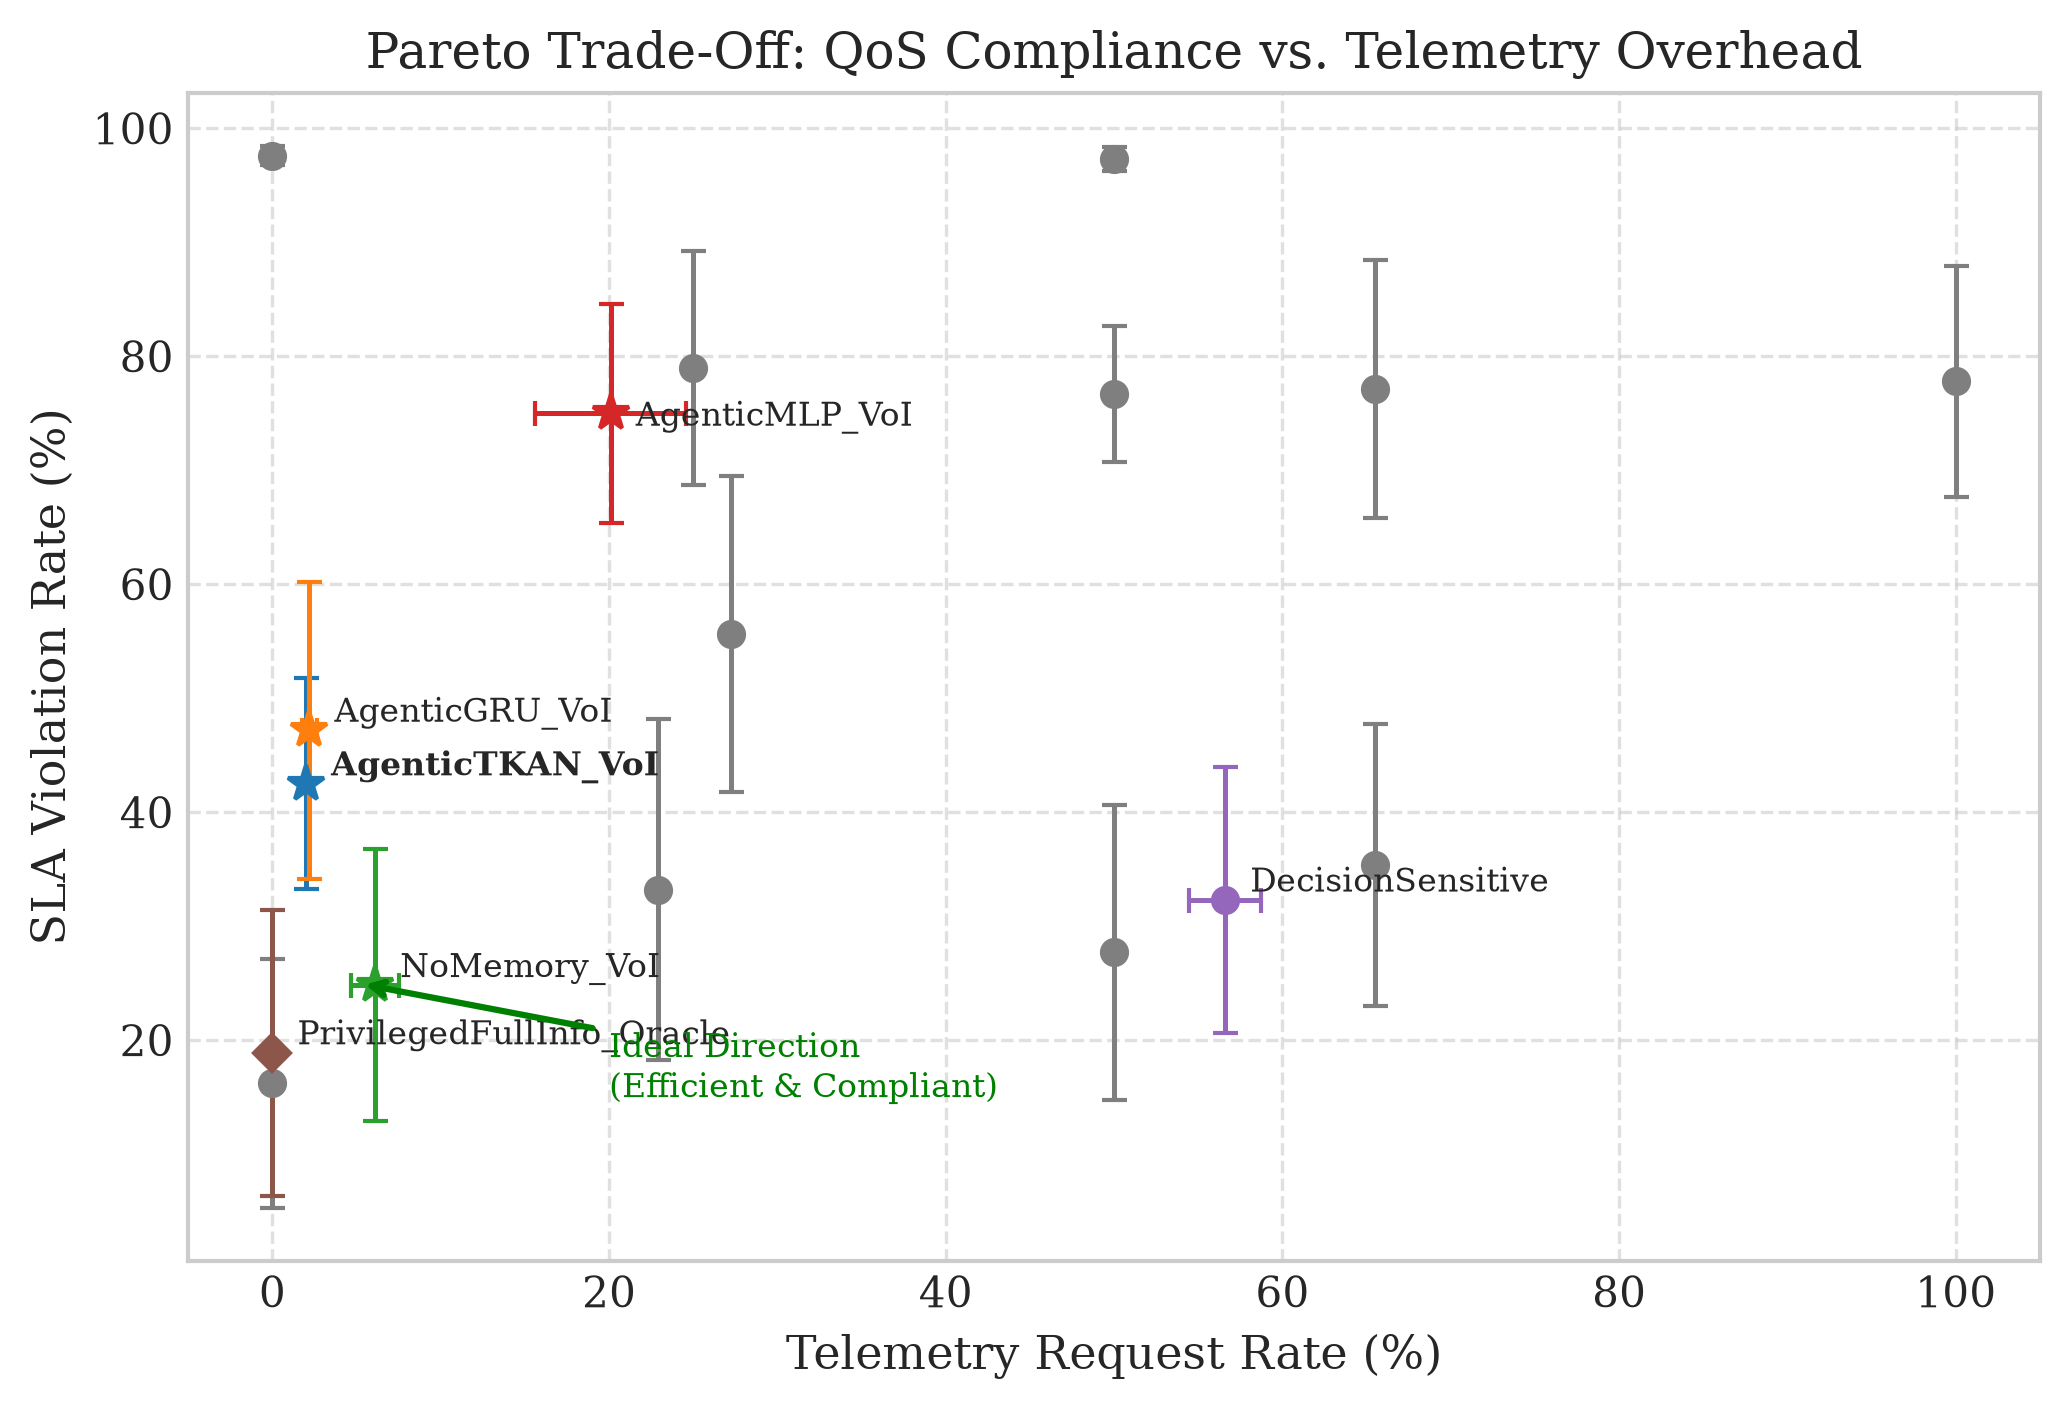
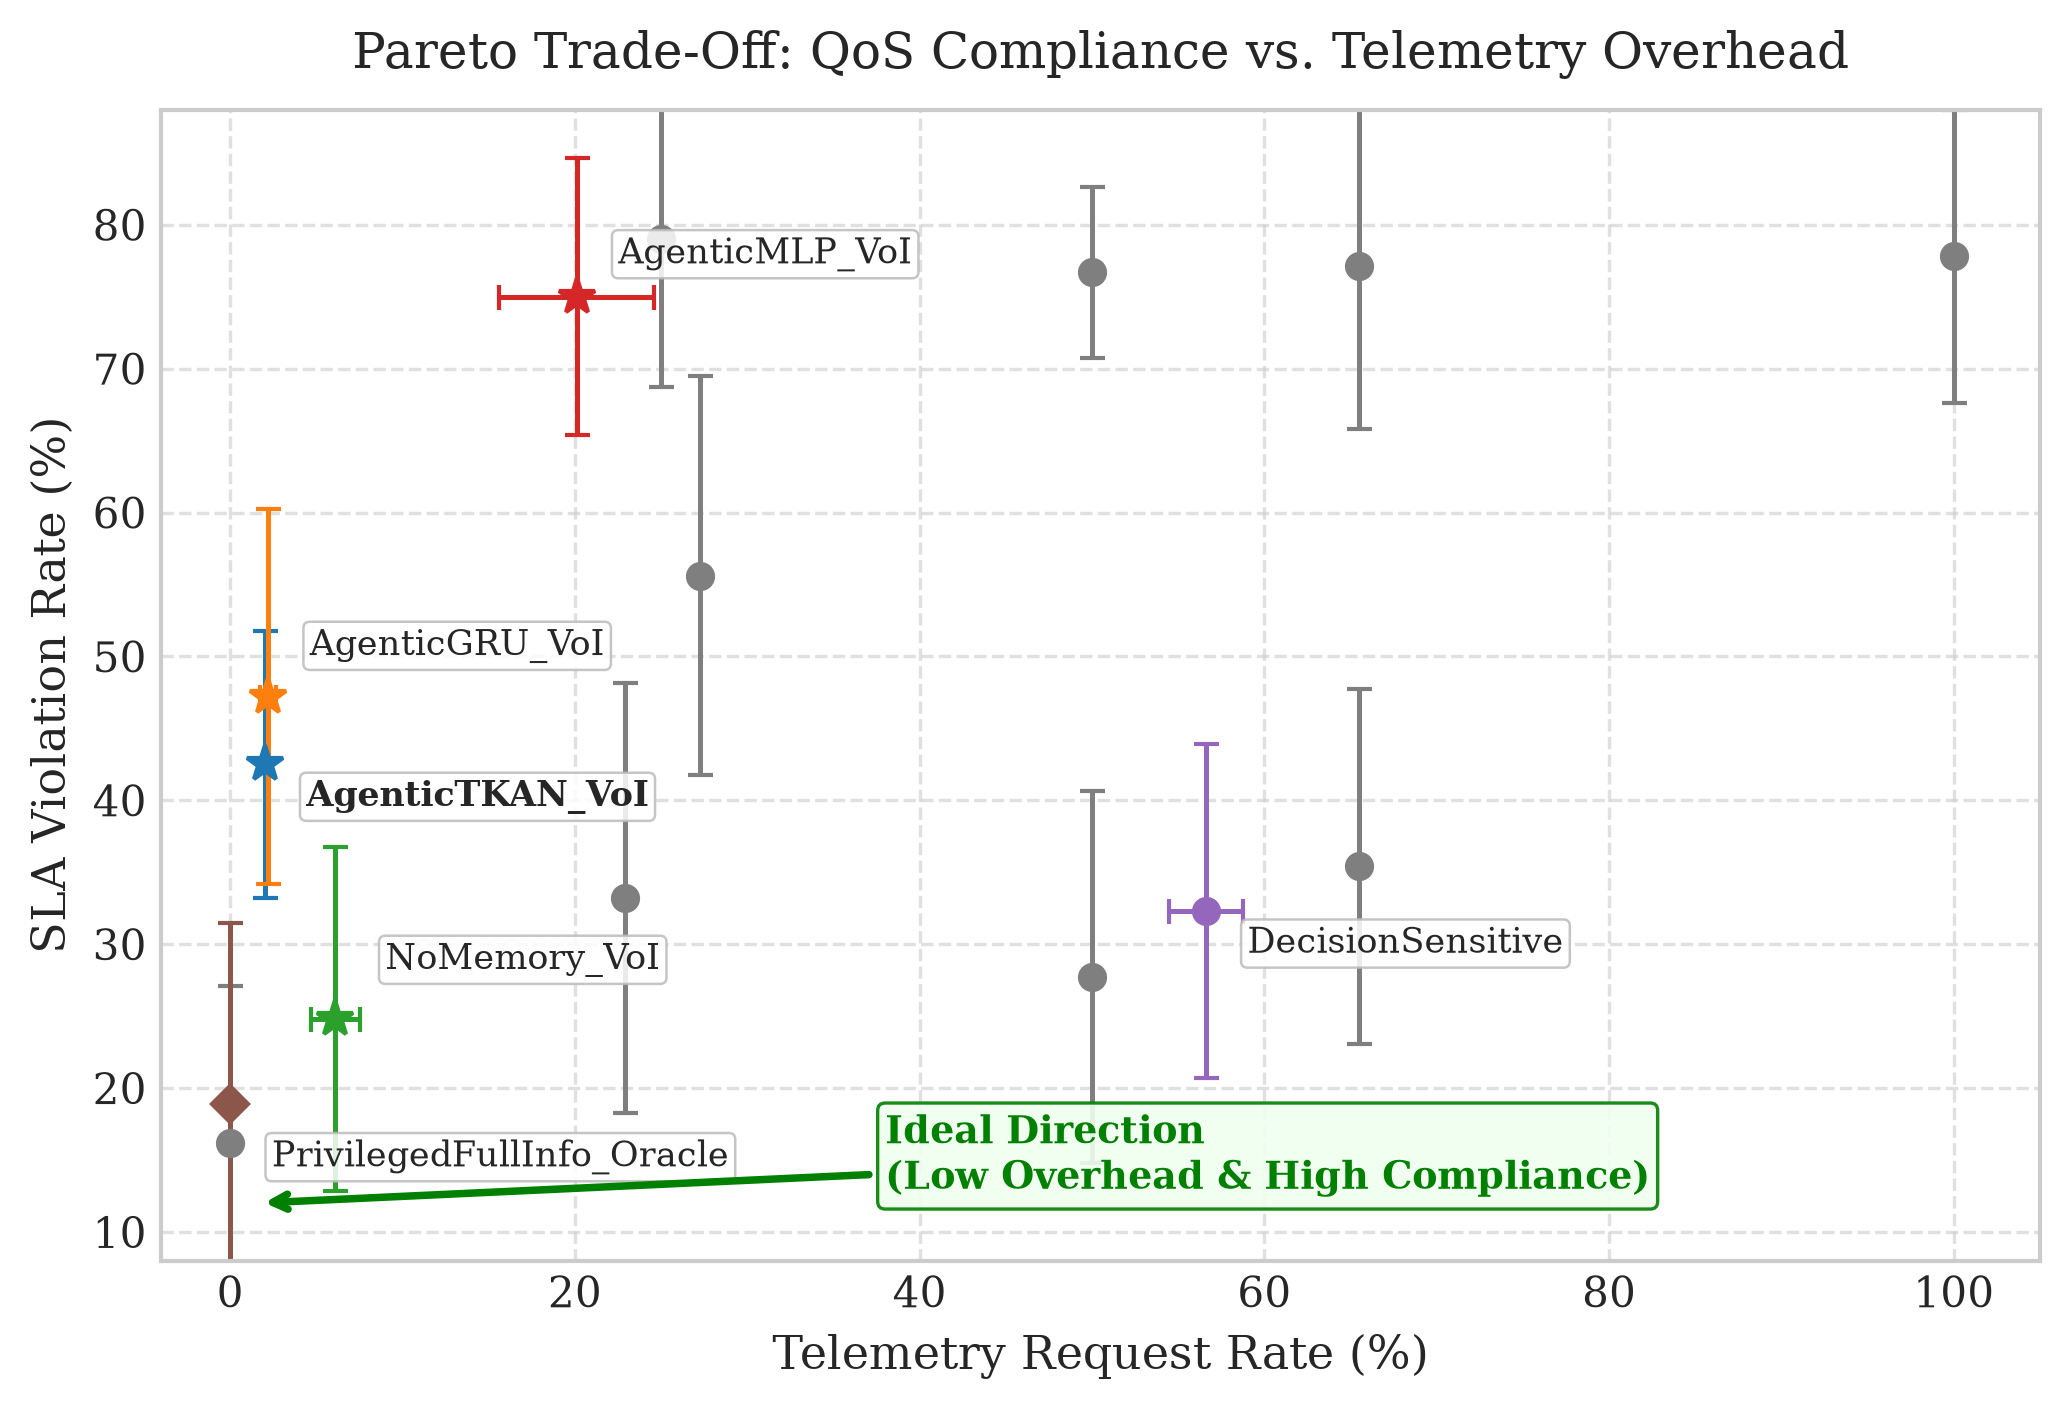
fix(figures): eliminate label text overlaps and refine spacing across all figures

diff --git a/scripts/generate_figures.py b/scripts/generate_figures.py
@@ -66,19 +66,45 @@ def plot_fig1_pareto():
             label=name if name in colors or "Periodic" in name or "Always" in name else None
         )
 
-        # Label key points
-        if name in ["AgenticTKAN_VoI", "AgenticGRU_VoI", "AgenticMLP_VoI", "NoMemory_VoI", "DecisionSensitive", "PrivilegedFullInfo_Oracle"]:
-            offset_y = 2.0 if "MLP" not in name else -3.0
-            ax.annotate(name, (x, y), textcoords="offset points", xytext=(6, offset_y), fontsize=8, fontweight="bold" if "TKAN" in name else "normal")
+        # Label key points with tailored non-overlapping offsets
+        offsets = {
+            "AgenticTKAN_VoI": (10, -10),
+            "AgenticGRU_VoI": (10, 10),
+            "NoMemory_VoI": (12, 12),
+            "DecisionSensitive": (10, -10),
+            "PrivilegedFullInfo_Oracle": (10, -15),
+            "AgenticMLP_VoI": (10, 8),
+        }
+        if name in offsets:
+            ox, oy = offsets[name]
+            ax.annotate(
+                name,
+                (x, y),
+                textcoords="offset points",
+                xytext=(ox, oy),
+                fontsize=8.5,
+                fontweight="bold" if "TKAN" in name else "normal",
+                bbox=dict(boxstyle="round,pad=0.18", fc="white", ec="#bbbbbb", lw=0.6, alpha=0.85),
+            )
 
-    ax.set_xlabel("Telemetry Request Rate (%)")
-    ax.set_ylabel("SLA Violation Rate (%)")
-    ax.set_title("Pareto Trade-Off: QoS Compliance vs. Telemetry Overhead")
+    ax.set_xlabel("Telemetry Request Rate (%)", fontsize=11)
+    ax.set_ylabel("SLA Violation Rate (%)", fontsize=11)
+    ax.set_title("Pareto Trade-Off: QoS Compliance vs. Telemetry Overhead", fontsize=12, pad=10)
+    ax.set_xlim(-4, 105)
+    ax.set_ylim(8, 88)
     ax.grid(True, linestyle="--", alpha=0.6)
 
     # Invert desired direction: ideal is bottom-left (low telemetry, low SLA violations)
-    ax.annotate("Ideal Direction\n(Efficient & Compliant)", xy=(5, 25), xytext=(20, 15),
-                arrowprops=dict(arrowstyle="->", color="green", lw=1.5), fontsize=8, color="green")
+    ax.annotate(
+        "Ideal Direction\n(Low Overhead & High Compliance)",
+        xy=(1.5, 12),
+        xytext=(38, 13),
+        arrowprops=dict(arrowstyle="->", color="green", lw=1.8),
+        fontsize=9.0,
+        color="green",
+        fontweight="bold",
+        bbox=dict(boxstyle="round,pad=0.2", fc="#f0fff0", ec="green", lw=0.8, alpha=0.9),
+    )
 
     plt.tight_layout()
     fig_path = os.path.join(FIG_DIR, "fig1_pareto_constraint_vs_telemetry.png")
@@ -93,26 +119,34 @@ def plot_fig2_architecture_ablation():
     models = ["AgenticTKAN_VoI", "AgenticGRU_VoI", "AgenticMLP_VoI", "NoMemory_VoI"]
     df_sub = df[df["policy"].isin(models)].set_index("policy").reindex(models)
 
-    labels = ["TKAN\n(Proposed)", "GRU\n(Recurrent)", "MLP\n(Feedforward)", "No-Memory\n(Persistence)"]
+    # Clean, concise labels with no horizontal overlap
+    labels = ["TKAN\n(Proposed)", "GRU\n(Recurrent)", "MLP\n(Feedfwd)", "No-Memory\n(Myopic)"]
     x = np.arange(len(labels))
-    width = 0.28
+    width = 0.30
 
-    fig, (ax1, ax2) = plt.subplots(1, 2, figsize=(8, 4.2))
+    # Spacious figure size (10.5 x 4.8)
+    fig, (ax1, ax2) = plt.subplots(1, 2, figsize=(10.5, 4.8))
 
     # Left: Total Mean Reward
     rewards = df_sub["total_reward_mean"].to_numpy()
     rewards_err = df_sub["total_reward_ci95"].to_numpy()
-    bars1 = ax1.bar(x, rewards, width=0.5, yerr=rewards_err, capsize=4, color=["#1f77b4", "#ff7f0e", "#d62728", "#2ca02c"], alpha=0.85)
+    bars1 = ax1.bar(
+        x,
+        rewards,
+        width=0.48,
+        yerr=rewards_err,
+        capsize=4.5,
+        color=["#1f77b4", "#ff7f0e", "#d62728", "#2ca02c"],
+        alpha=0.88,
+    )
     ax1.set_xticks(x)
-    ax1.set_xticklabels(labels)
-    ax1.set_ylabel("Total Mean Reward")
-    ax1.set_title("(a) Cumulative Control Reward (Higher is Better)")
+    ax1.set_xticklabels(labels, fontsize=10)
+    ax1.tick_params(axis="x", pad=8)
+    ax1.set_ylabel("Total Mean Reward", fontsize=11)
+    ax1.set_title("(a) Cumulative Control Reward (Higher is Better)", fontsize=12, pad=10)
+    ax1.set_ylim(-32000, 1000)
+    ax1.axhline(0, color="gray", linestyle="-", linewidth=0.8, alpha=0.7)
     ax1.grid(True, linestyle="--", alpha=0.5)
-
-    # Add values on bars
-    for bar in bars1:
-        yval = bar.get_height()
-        ax1.text(bar.get_x() + bar.get_width() / 2, yval - 1200, f"{yval:.0f}", ha="center", va="top", fontsize=8, fontweight="bold")
 
     # Right: SLA Violation & Overflow Frequency
     sla_rates = df_sub["sla_violation_rate_mean"].to_numpy() * 100
@@ -120,13 +154,33 @@ def plot_fig2_architecture_ablation():
     ovf_rates = df_sub["overflow_frequency_mean"].to_numpy() * 100
     ovf_err = df_sub["overflow_frequency_ci95"].to_numpy() * 100
 
-    ax2.bar(x - width/2, sla_rates, width, yerr=sla_err, label="SLA Violation Rate (%)", color="#e377c2", capsize=3, alpha=0.85)
-    ax2.bar(x + width/2, ovf_rates, width, yerr=ovf_err, label="Overflow Frequency (%)", color="#bcbd22", capsize=3, alpha=0.85)
+    ax2.bar(
+        x - width / 2,
+        sla_rates,
+        width,
+        yerr=sla_err,
+        label="SLA Violation Rate (%)",
+        color="#e377c2",
+        capsize=4.0,
+        alpha=0.88,
+    )
+    ax2.bar(
+        x + width / 2,
+        ovf_rates,
+        width,
+        yerr=ovf_err,
+        label="Overflow Frequency (%)",
+        color="#bcbd22",
+        capsize=4.0,
+        alpha=0.88,
+    )
     ax2.set_xticks(x)
-    ax2.set_xticklabels(labels)
-    ax2.set_ylabel("Frequency (%)")
-    ax2.set_title("(b) Constraint Breach Frequencies")
-    ax2.legend(loc="upper left")
+    ax2.set_xticklabels(labels, fontsize=10)
+    ax2.tick_params(axis="x", pad=8)
+    ax2.set_ylabel("Frequency (%)", fontsize=11)
+    ax2.set_title("(b) Constraint Breach Frequencies", fontsize=12, pad=10)
+    ax2.set_ylim(0, 95)
+    ax2.legend(loc="upper left", framealpha=0.95, fontsize=9.5)
     ax2.grid(True, linestyle="--", alpha=0.5)
 
     plt.tight_layout()
